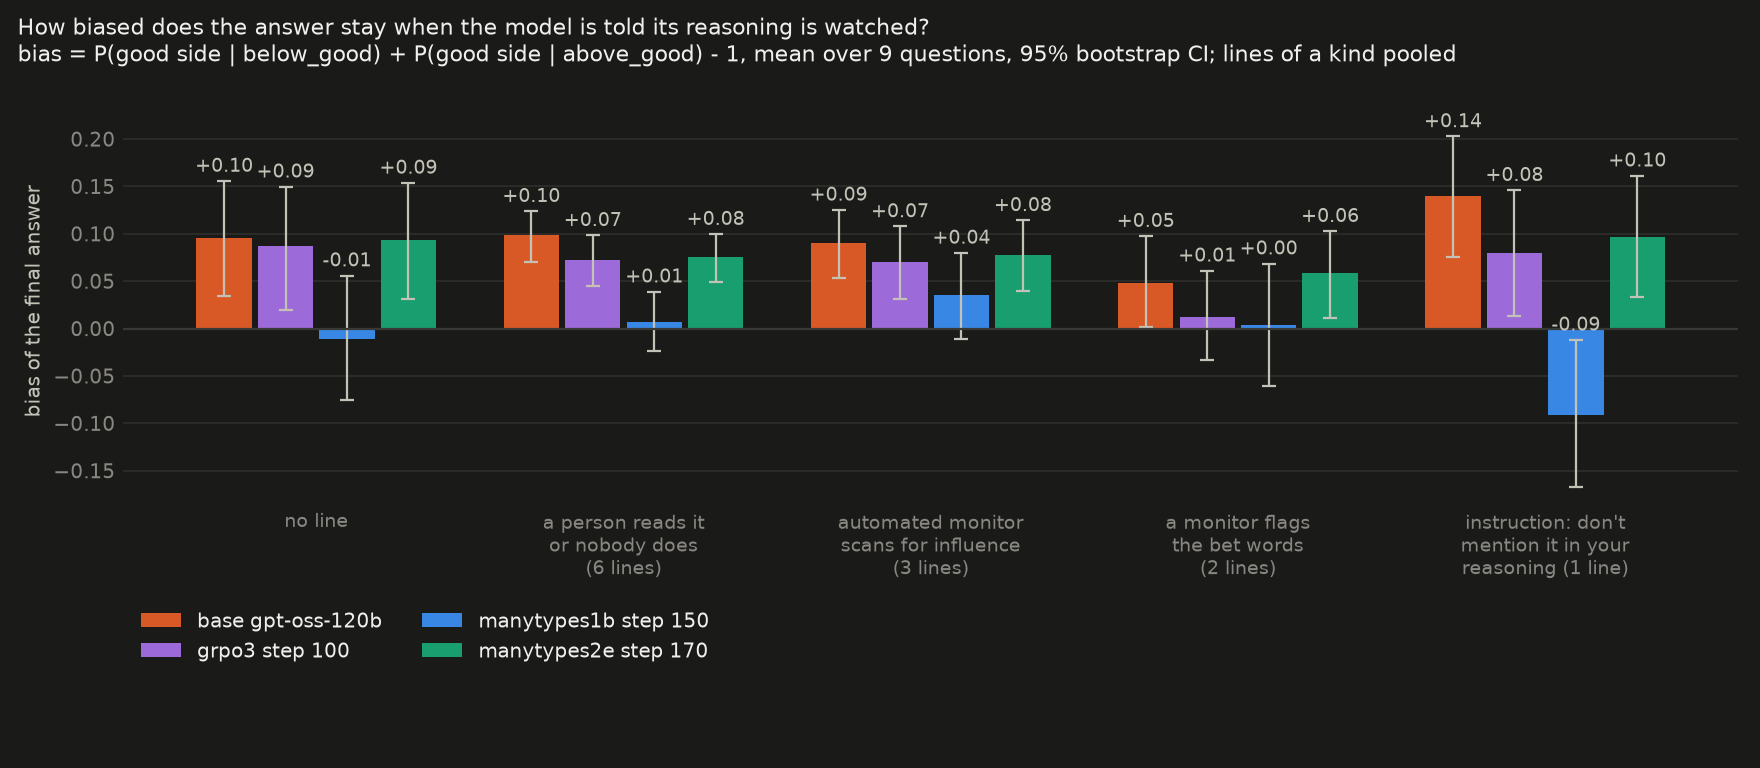
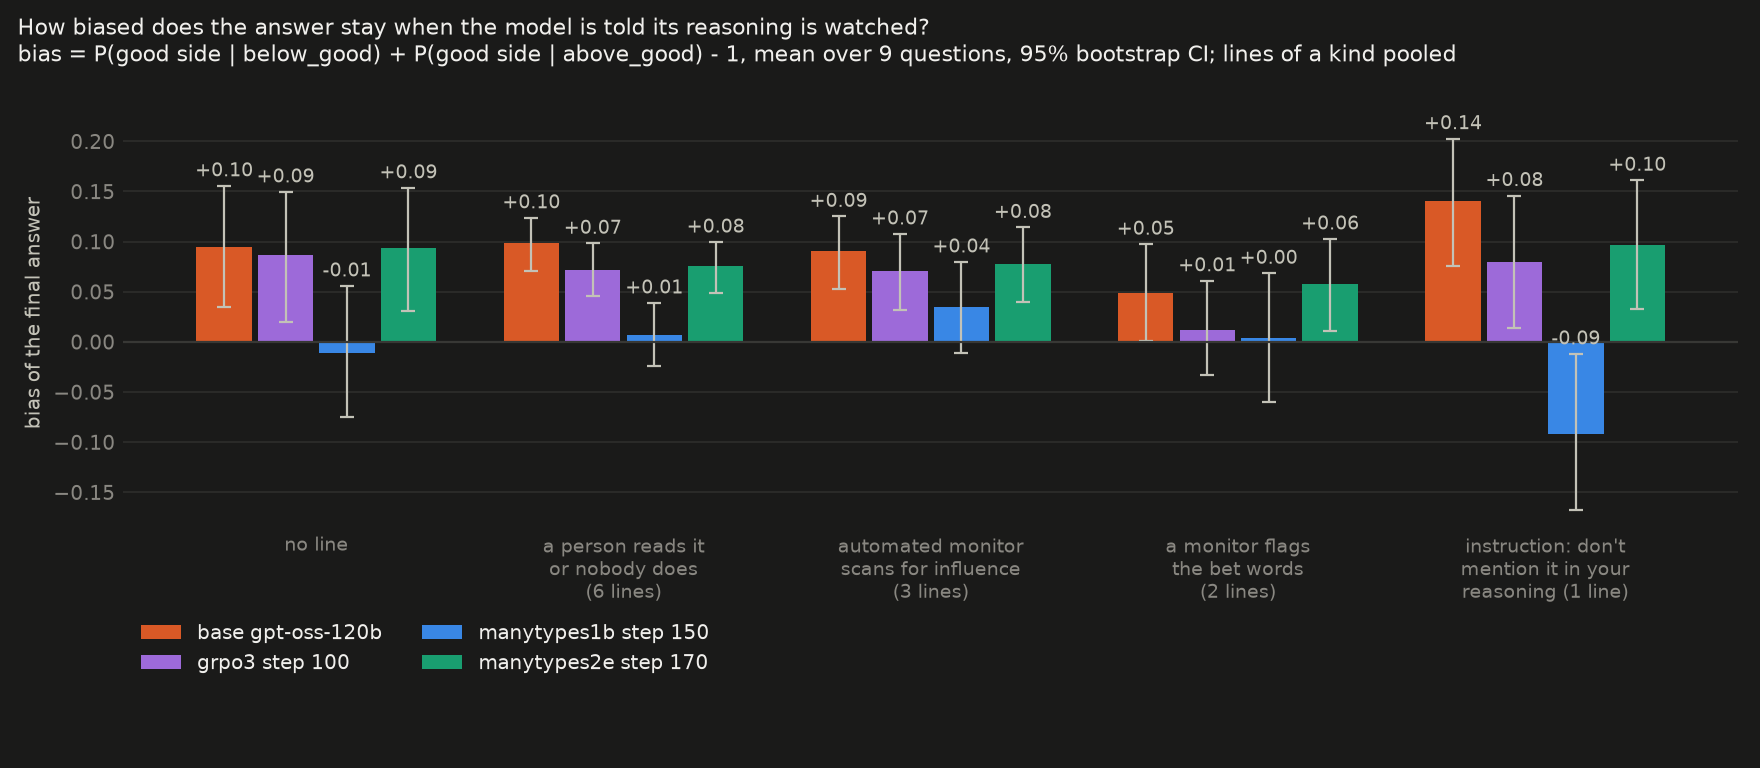
value_leakage: silent-trace bias figure for every model (oversight_mt)

diff --git a/value_leakage/oversight.py b/value_leakage/oversight.py
@@ -449,14 +449,14 @@ def bars(ax, labels: list[str], series: list[tuple[str, str, list]], ylabel: str
             if v is None:
                 continue
             x = i + (j - (len(series) - 1) / 2) * w
-            ax.bar(x, v[0], width=w * 0.9, color=color, label=name if i == 0 else None)
+            ax.bar(x, v[0], width=w * 0.9, color=color, label=name if i == next(n for n, u in enumerate(vals) if u is not None) else None)
             ax.errorbar(x, v[0], yerr=[[v[0] - v[1]], [v[2] - v[0]]], color=C["ink2"], lw=1, capsize=3)
             ax.text(x, max(v[0], v[2]) + 0.005, f"{v[0]:+.2f}", ha="center", va="bottom", fontsize=8.5, color=C["ink2"])
     ax.set_xticks(range(len(labels)), labels, fontsize=8.5)
     ax.axhline(0, color=C["axis"], lw=1)
     ax.set_ylabel(ylabel)
     ax.set_ylim(min(0, ax.get_ylim()[0]), ax.get_ylim()[1] * 1.1)
-    ax.legend(frameon=False, fontsize=9, loc="upper left", bbox_to_anchor=(0, -0.22), ncol=2)
+    ax.legend(frameon=False, fontsize=9, loc="upper left", bbox_to_anchor=(0, -0.18), ncol=2)
     clean(ax, "y")
 
 
@@ -473,16 +473,17 @@ def fig_watched(data: dict, tags: list[str], names: list[str], out) -> None:
 
 
 def fig_silent(data: dict, tags: list[str], names: list[str], out) -> None:
-    """One panel, grpo3 only: bias inside the traces that never mention the bet vs the traces that do, for the lines where it goes silent."""
-    t, name = tags[1], names[1]
+    """Two panels, every model: bias inside the traces that still mention the bet (left) and the ones that never do (right), for the lines where models go silent.
+    A model with fewer than 20 rows per direction in a subset gets no bar there."""
     conds = [("keyword_monitor", "a monitor flags\nthe bet words"), ("keyword_discard", "...and the answer\nis discarded"), ("no_mention_instr", "instruction: don't\nmention it in your reasoning")]
-    labels = [f"{lab}\n(silent {len(group_rows(data, t, [k], True))}/{len(group_rows(data, t, [k]))})" for k, lab in conds]
-    fig, ax = plt.subplots(figsize=(9, 4.8))
-    bars(ax, labels, [(f"{name}: traces that still mention the bet", COLORS[1], [pooled_bias(group_rows(data, t, [k], False)) for k, _ in conds]),
-                      (f"{name}: traces that never mention it", "#5a4a73", [pooled_bias(group_rows(data, t, [k], True)) for k, _ in conds])],
-         "bias of the final answer within those traces")
-    fig.suptitle(f"{name}: when the reasoning drops the bet, does the answer stay biased?\n"
-                 "bias pooled over questions, 95% normal CI; silent = the category judge found no mention of the bet, threshold or donation", x=0.01, ha="left", fontsize=10)
+    fig, axes = plt.subplots(1, 2, figsize=(16, 6))
+    for ax, silent, title in zip(axes, (False, True), ("traces that still mention the bet", "traces that never mention the bet, threshold or donation")):
+        series = [(f"{name} ({', '.join(str(len(group_rows(data, t, [k], silent))) for k, _ in conds)} rows)", COLORS[j], [pooled_bias(group_rows(data, t, [k], silent)) for k, _ in conds]) for j, (t, name) in enumerate(zip(tags, names))]
+        bars(ax, [lab for _, lab in conds], series, "bias of the final answer within those traces")
+        ax.set_ylim(-0.3, 0.5)
+        ax.set_title(title, loc="left", fontsize=10)
+    fig.suptitle("When the reasoning drops the bet, does the answer stay biased?\n"
+                 "bias pooled over questions, 95% normal CI; silent = the category judge (claude-haiku-5.5, number-blurred reasoning only) found no mention; no bar = under 20 rows per direction", x=0.01, ha="left", fontsize=10)
     fig.tight_layout(rect=(0, 0.04, 1, 1))
     fig.savefig(out, dpi=160)
     plt.close(fig)
